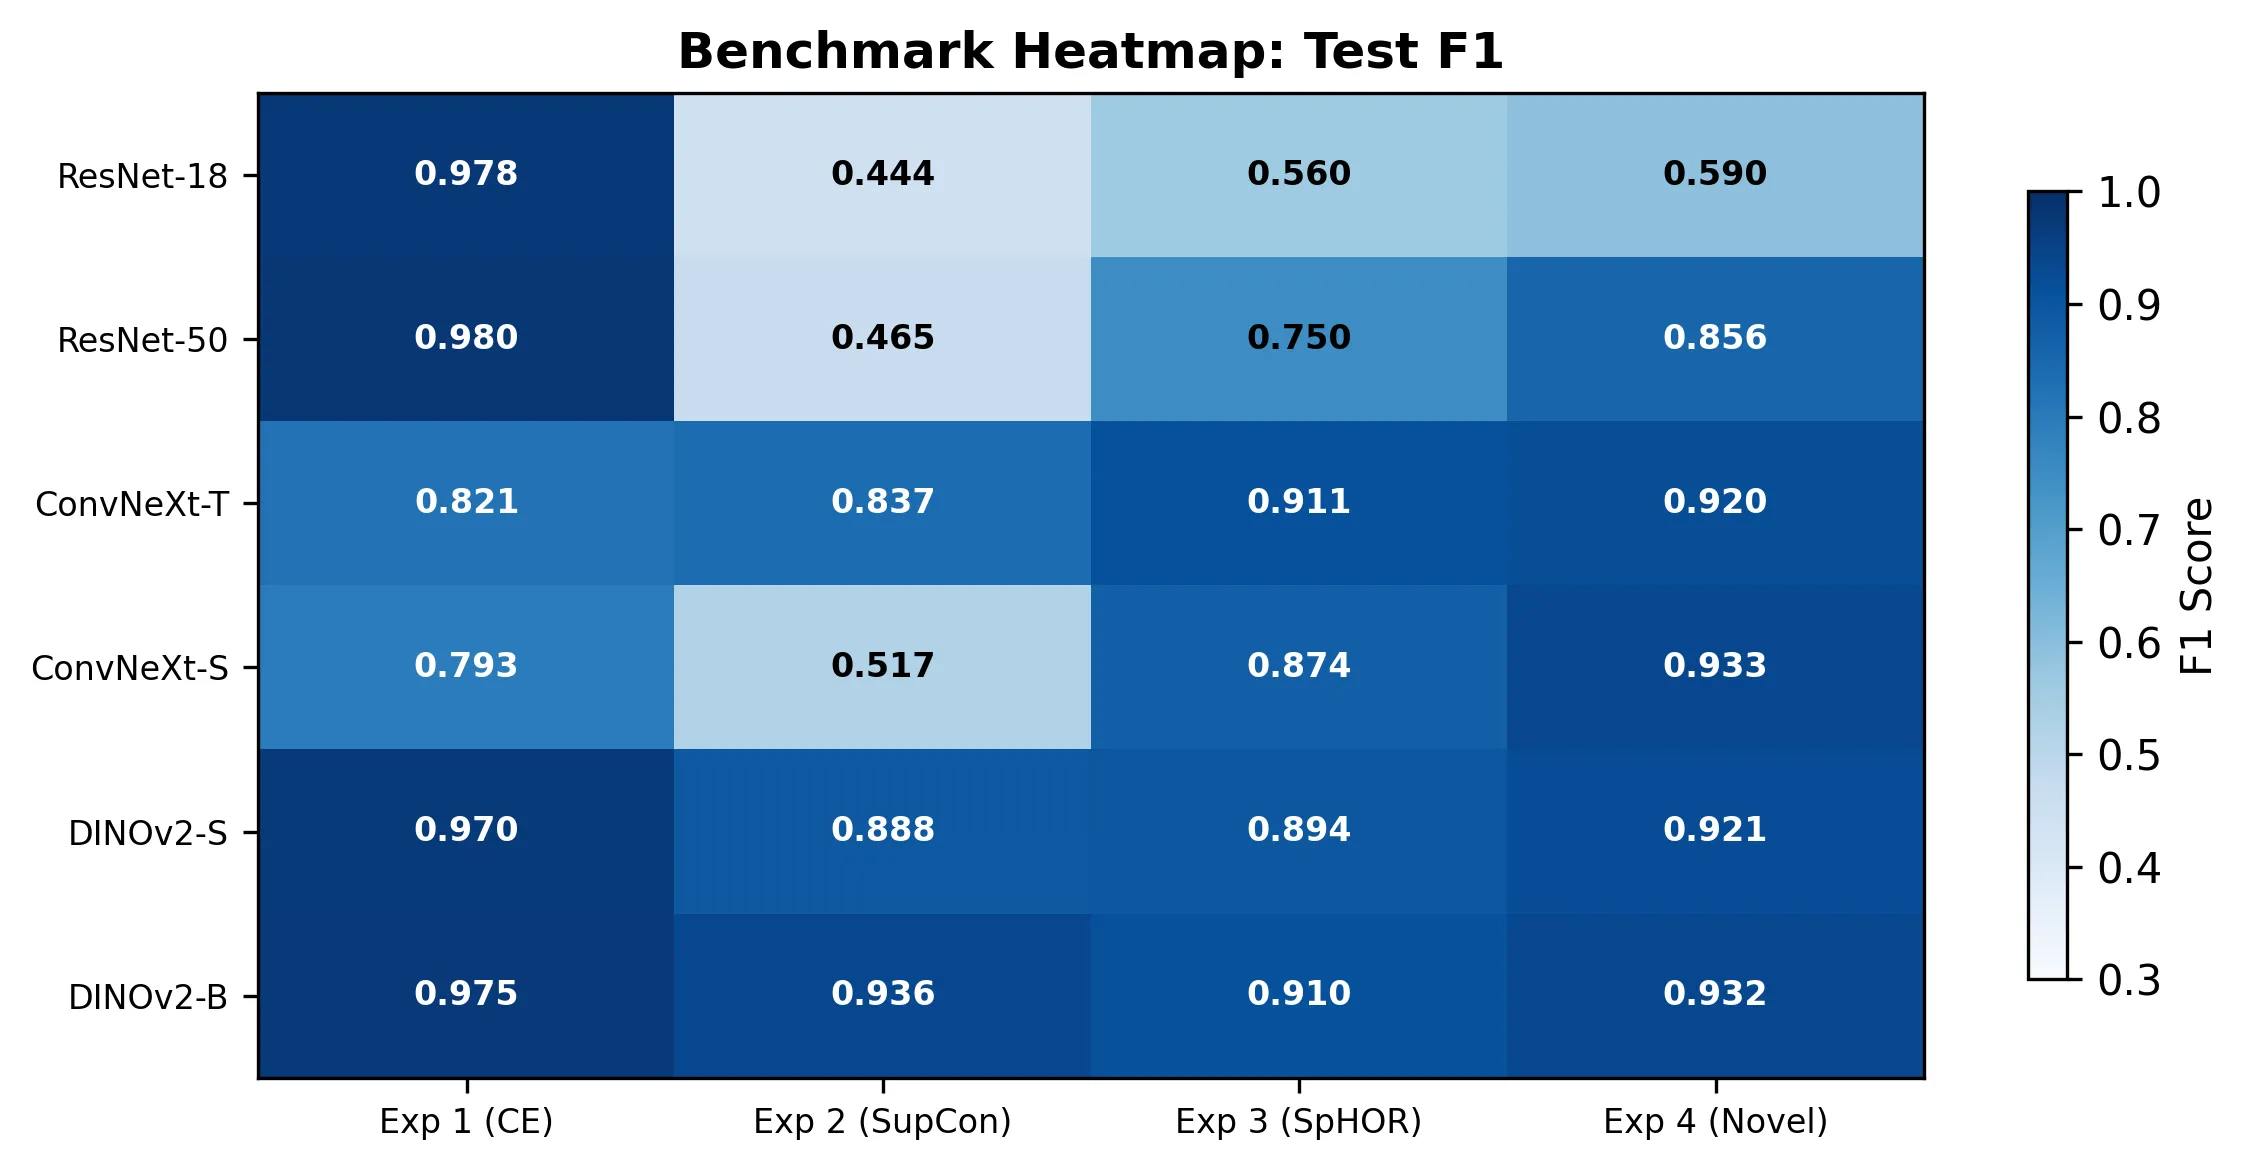
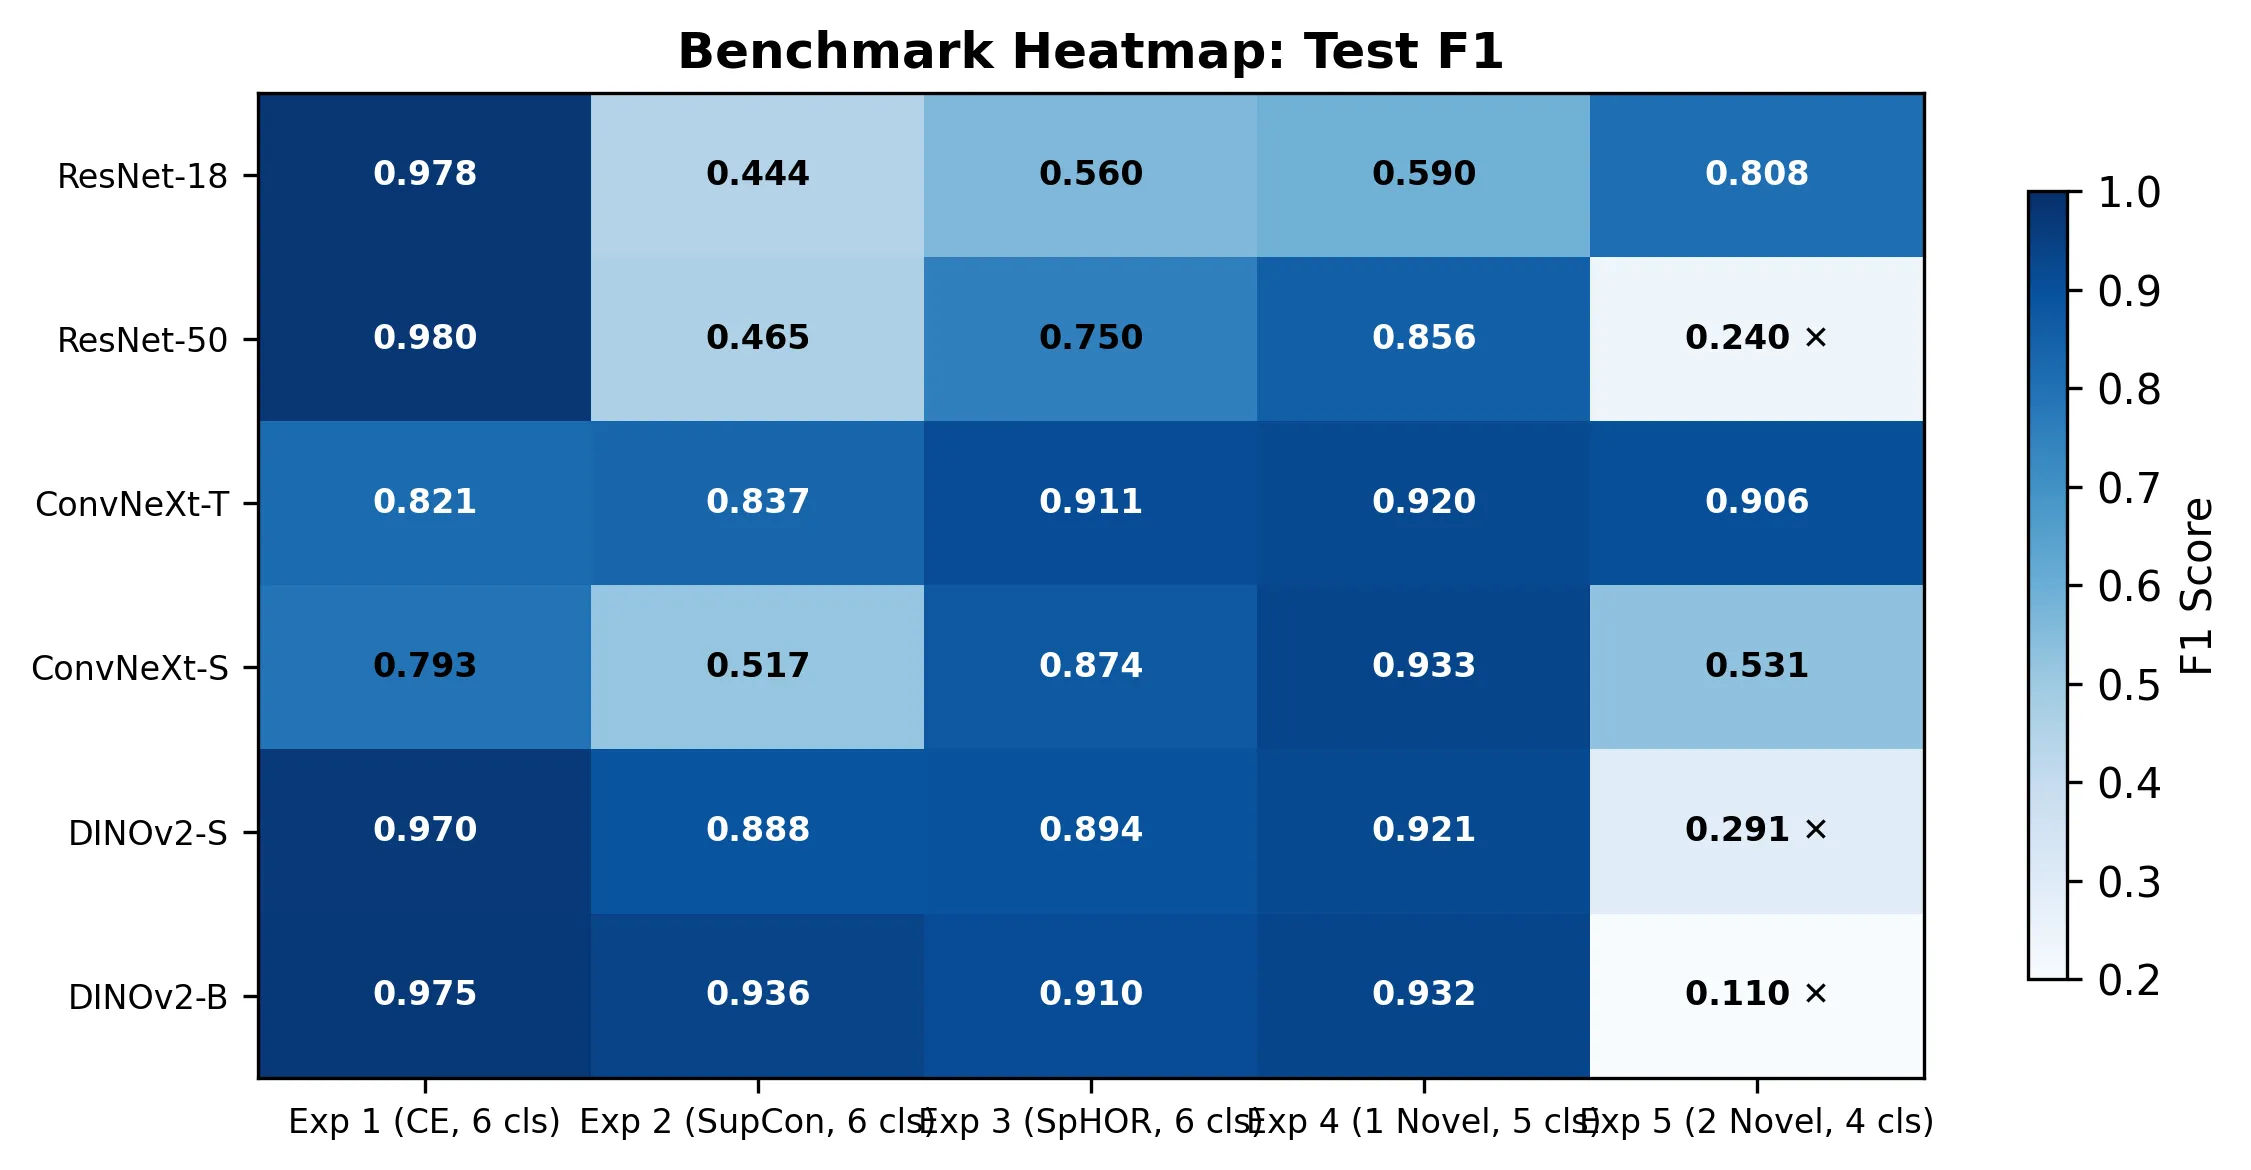
feat(frontend): red-yellow-green matrices + synced figures (#100)
* feat(frontend): red-yellow-green scale on both matrices with readable text

* chore(frontend): sync regenerated figures (benchmark, closed_vs_open, new Exp5)

diff --git a/frontend/src/features/explorer/utils/__tests__/metrics-colors.test.ts b/frontend/src/features/explorer/utils/__tests__/metrics-colors.test.ts
@@ -1,39 +1,50 @@
 import { describe, it, expect } from "vitest";
-import { f1Color, aurocColor } from "../metrics-colors";
+import { f1Color, aurocColor, heatColor, heatTextColor } from "../metrics-colors";
+
+describe("heatColor", () => {
+  it("is red at 0", () => {
+    expect(heatColor(0)).toContain("30.0");
+  });
+
+  it("is yellow at 0.5", () => {
+    expect(heatColor(0.5)).toContain("100.0");
+  });
+
+  it("is green at 1", () => {
+    expect(heatColor(1)).toContain("145.0");
+  });
+
+  it("clamps out-of-range values", () => {
+    expect(heatColor(-1)).toBe(heatColor(0));
+    expect(heatColor(2)).toBe(heatColor(1));
+  });
+});
+
+describe("heatTextColor", () => {
+  it("is dark ink on the yellow band", () => {
+    expect(heatTextColor(0.5)).not.toBe("#ffffff");
+  });
+
+  it("is white on saturated red/green", () => {
+    expect(heatTextColor(0)).toBe("#ffffff");
+    expect(heatTextColor(1)).toBe("#ffffff");
+  });
+});
 
 describe("f1Color", () => {
   it("returns valid oklch string", () => {
     expect(f1Color(0.5)).toMatch(/^oklch\(/);
   });
 
-  it("is green hue for high f1", () => {
-    expect(f1Color(0.9)).toContain("145");
-  });
-
-  it("is amber hue for low f1", () => {
-    expect(f1Color(0.3)).toContain("25");
-  });
-
-  it("lightness increases with f1", () => {
-    const dark = f1Color(0);
-    const bright = f1Color(1);
-    expect(parseFloat(dark.split(" ")[0].slice(6))).toBeLessThan(
-      parseFloat(bright.split(" ")[0].slice(6)),
-    );
+  it("maps 0/1 to red/green", () => {
+    expect(f1Color(0)).toContain("30.0");
+    expect(f1Color(1)).toContain("145.0");
   });
 });
 
 describe("aurocColor", () => {
-  it("returns gray for random (0.5)", () => {
-    expect(aurocColor(0.5)).toBe("oklch(0.45 0.015 200)");
-  });
-
-  it("returns color for good (0.8)", () => {
-    expect(aurocColor(0.8)).toMatch(/^oklch\(/);
+  it("uses the same 0-1 red-yellow-green scale", () => {
+    expect(aurocColor(0.5)).toContain("100.0");
     expect(aurocColor(0.8)).not.toBe(aurocColor(0.5));
-  });
-
-  it("returns gray for below random (0.3)", () => {
-    expect(aurocColor(0.3)).toMatch(/^oklch\(0\.45/);
   });
 });

diff --git a/frontend/src/features/explorer/utils/metrics-colors.ts b/frontend/src/features/explorer/utils/metrics-colors.ts
@@ -1,12 +1,38 @@
+function clamp01(v: number): number {
+  return Math.min(1, Math.max(0, v));
+}
+
+type Oklch = [number, number, number];
+
+// Anchors: bright red @0 → yellow @0.5 → vivid green @1.
+const RED: Oklch = [0.55, 0.22, 30];
+const YELLOW: Oklch = [0.85, 0.16, 100];
+const GREEN: Oklch = [0.6, 0.18, 145];
+
+function lerp(a: Oklch, b: Oklch, t: number): Oklch {
+  return [a[0] + (b[0] - a[0]) * t, a[1] + (b[1] - a[1]) * t, a[2] + (b[2] - a[2]) * t];
+}
+
+function fmt(c: Oklch): string {
+  return `oklch(${c[0].toFixed(3)} ${c[1].toFixed(3)} ${c[2].toFixed(1)})`;
+}
+
+/** Red (0) → yellow (0.5) → green (1) background for both matrices. */
+export function heatColor(value: number): string {
+  const v = clamp01(value);
+  return fmt(v < 0.5 ? lerp(RED, YELLOW, v * 2) : lerp(YELLOW, GREEN, (v - 0.5) * 2));
+}
+
+/** Readable foreground on heatColor: dark ink on the yellow band, white elsewhere. */
+export function heatTextColor(value: number): string {
+  const v = clamp01(value);
+  return v > 0.32 && v < 0.68 ? "oklch(0.25 0.02 100)" : "#ffffff";
+}
+
 export function f1Color(f1: number): string {
-  const l = 0.15 + f1 * 0.6;
-  return `oklch(${l} 0.15 ${f1 > 0.6 ? 145 : 25})`;
+  return heatColor(f1);
 }
 
 export function aurocColor(auroc: number): string {
-  const aboveRandom = Math.max(0, (auroc - 0.5) * 2);
-  if (aboveRandom < 0.05) return "oklch(0.45 0.015 200)";
-  const l = 0.35 + aboveRandom * 0.4;
-  const chroma = 0.04 + aboveRandom * 0.14;
-  return `oklch(${l} ${chroma} 145)`;
+  return heatColor(auroc);
 }

diff --git a/frontend/src/features/explorer/components/MatrixSection.tsx b/frontend/src/features/explorer/components/MatrixSection.tsx
@@ -3,6 +3,7 @@ import { createPortal } from "react-dom";
 import { useNavigate } from "react-router-dom";
 import { useTranslation } from "react-i18next";
 import { cn } from "@/lib/utils";
+import { heatTextColor } from "@/features/explorer/utils/metrics-colors";
 import type { ExperimentSummary } from "@/lib/types";
 import {
   getArchitectureFamily, FAMILY_COLORS, LABEL_TO_VARIANT,
@@ -72,7 +73,10 @@ export function MatrixSection({
             ? "cursor-pointer focus-visible:ring-2 focus-visible:ring-ring hover:brightness-110"
             : "text-muted-foreground",
         )}
-        style={{ backgroundColor: value !== null ? colorFn(value) : undefined }}
+        style={{
+          backgroundColor: value !== null ? colorFn(value) : undefined,
+          color: value !== null ? heatTextColor(value) : undefined,
+        }}
         onClick={() => exp && navigate(`/experiments/${exp.id}`)}
         onKeyDown={(e) => {
           if ((e.key === "Enter" || e.key === " ") && exp) {
